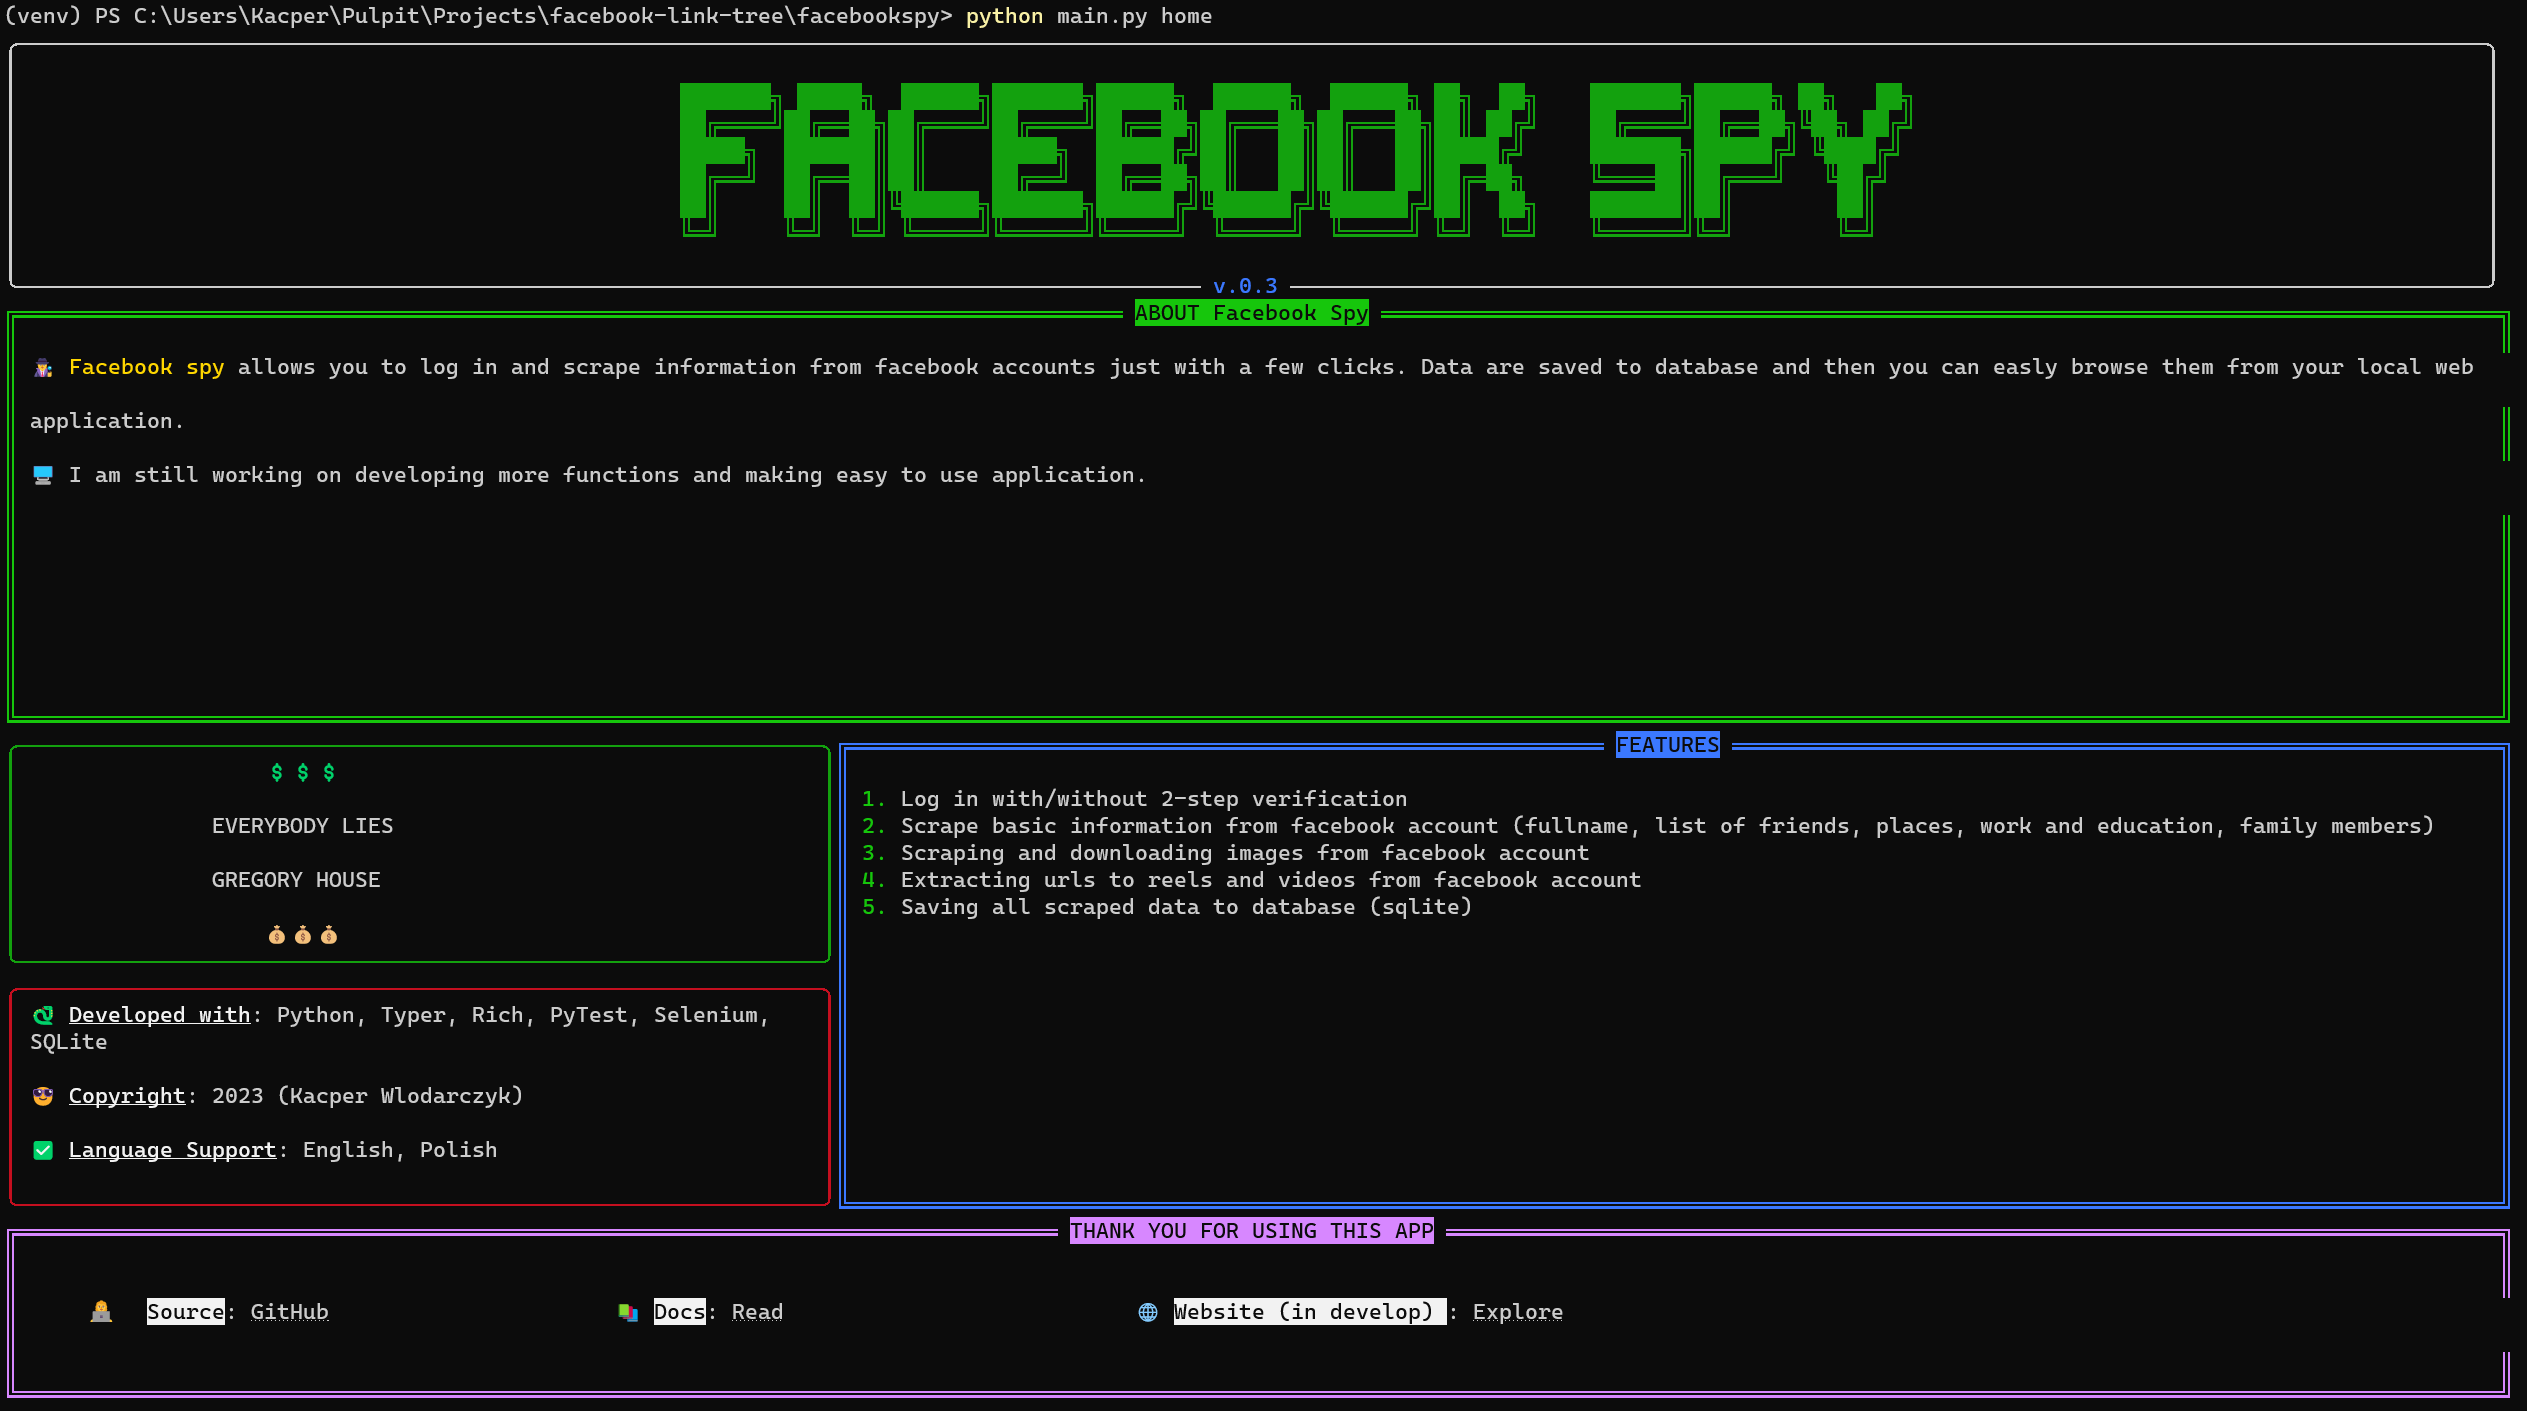
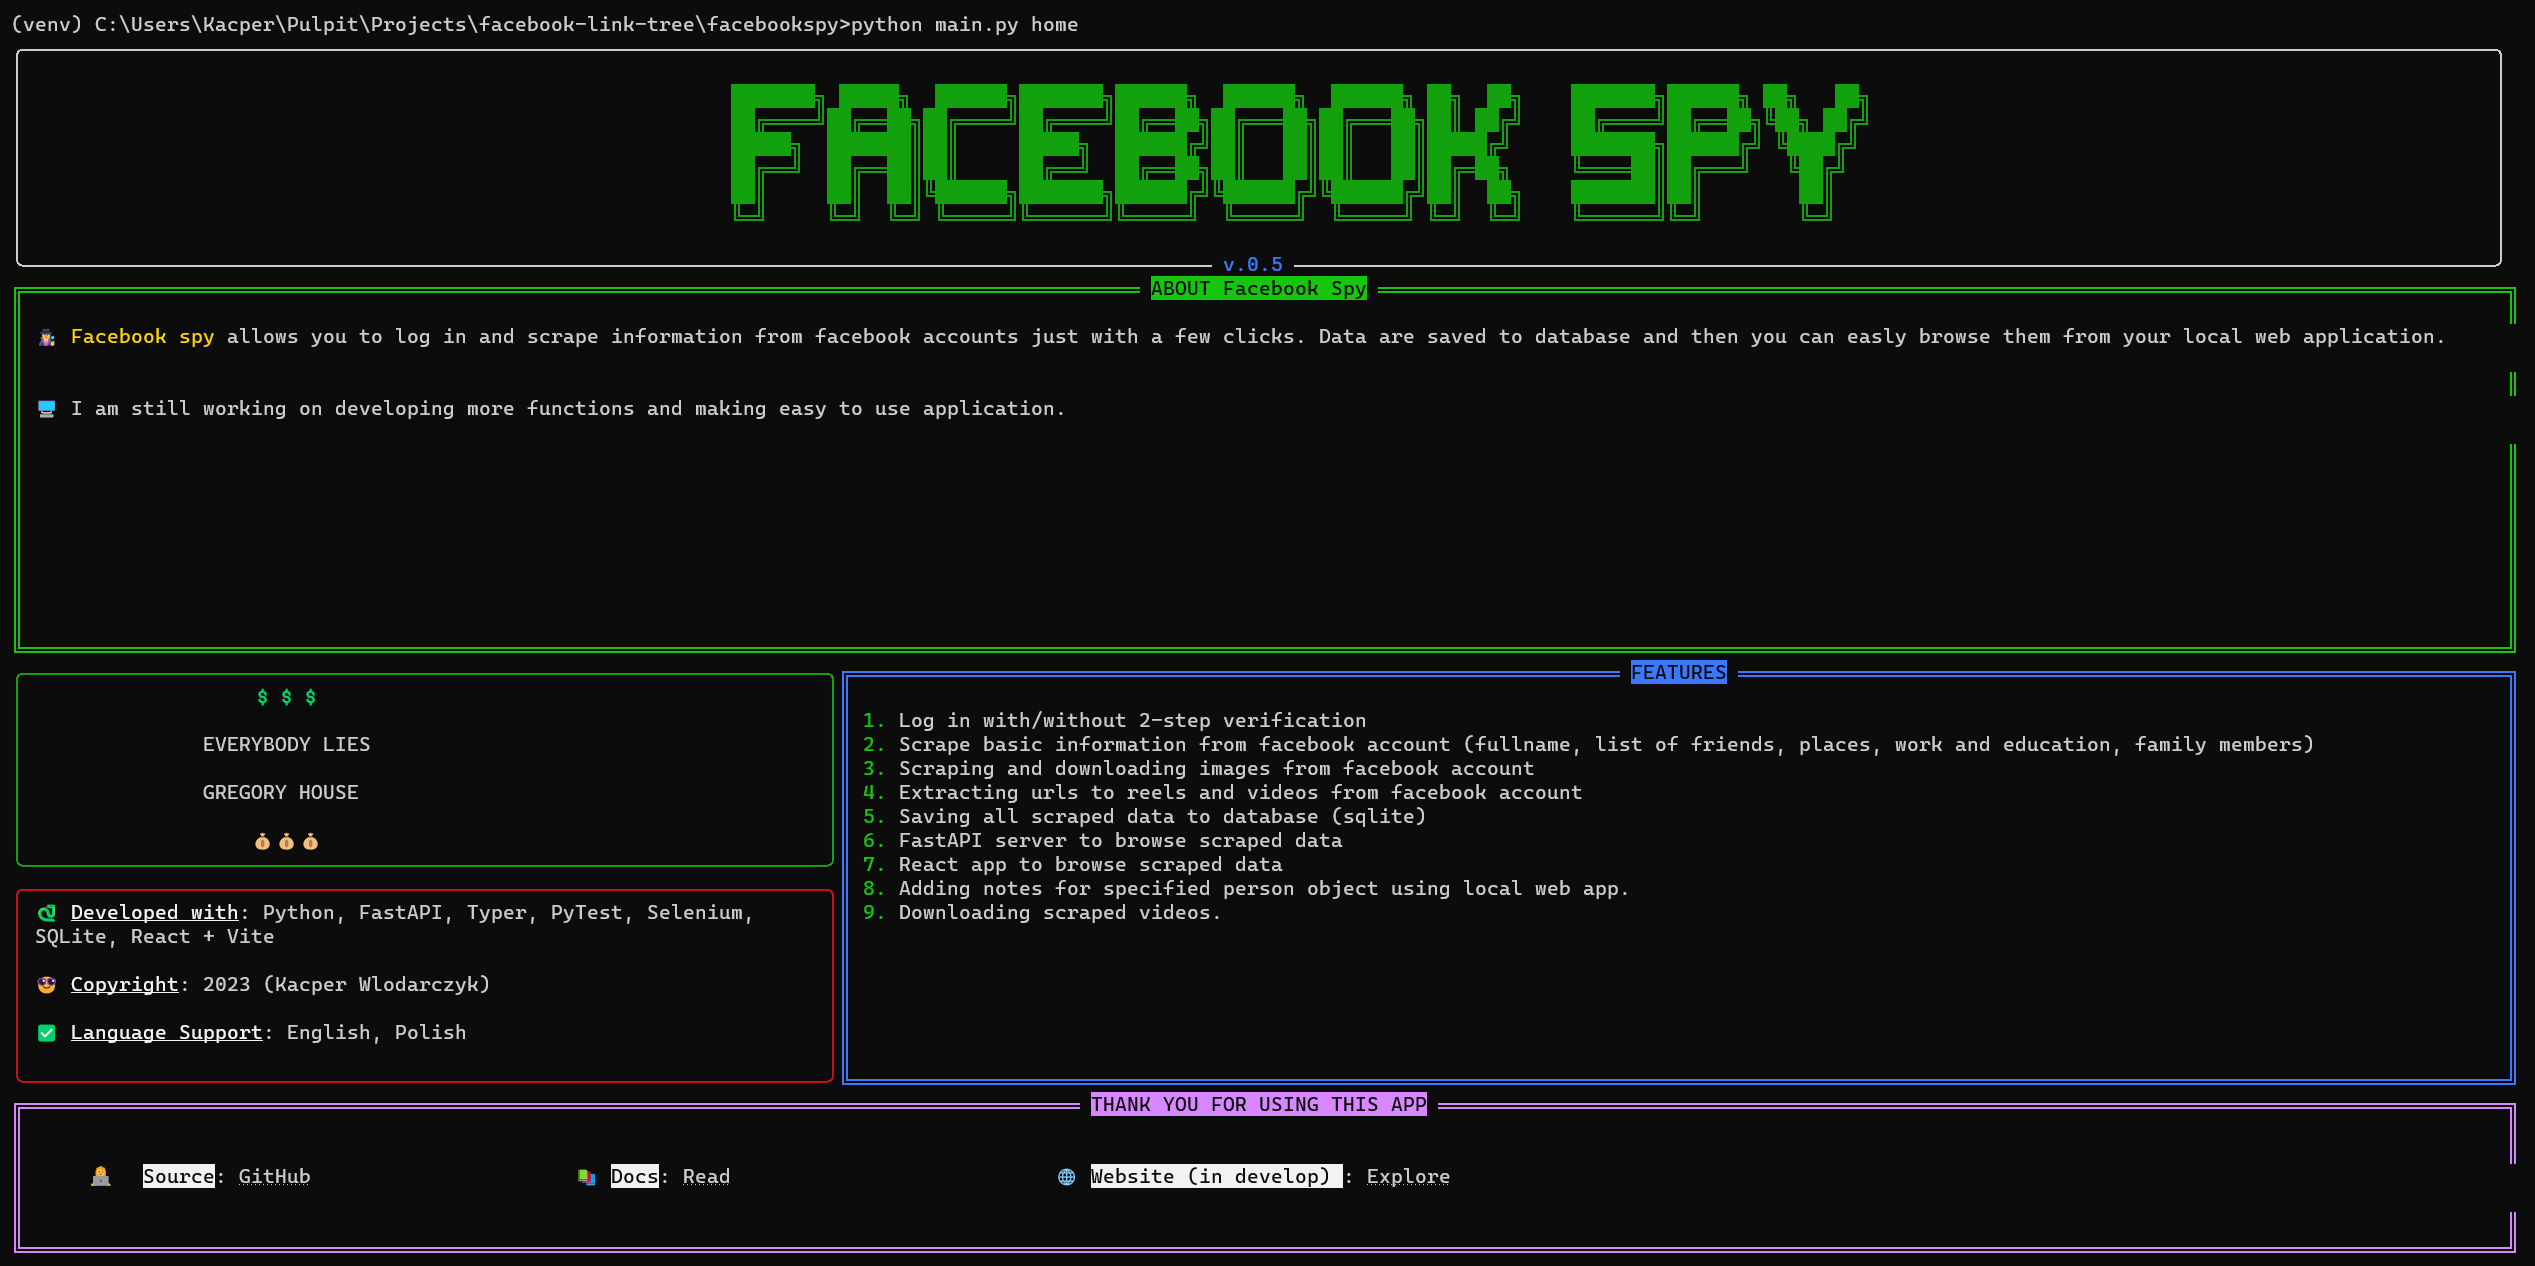
update README.md

diff --git a/facebookspy/src/server/frontend/src/Account/AccountList/pages/PersonsPage.jsx b/facebookspy/src/server/frontend/src/Account/AccountList/pages/PersonsPage.jsx
@@ -27,7 +27,7 @@ const PersonsPage = () => {
 
   useEffect(() => {
     if (searchTerm) {
-      axios.get(`http://127.0.0.1:8000/person/search/?search_term=${searchTerm}`)
+      axios.get(`http://localhost:8000/person/search/?search_term=${searchTerm}`)
         .then(response => {
           setSearchResults(response.data);
         })

diff --git a/facebookspy/src/cli/home.py b/facebookspy/src/cli/home.py
@@ -31,7 +31,7 @@ def display_start_menu() -> None:
     )
 
     main_content = Panel(
-        renderable="[bold green]1.[/bold green] Log in with/without 2-step verification\n[bold green]2.[/bold green] Scrape basic information from facebook account (fullname, list of friends, places, work and education, family members) \n[bold green]3.[/bold green] Scraping and downloading images from facebook account\n[bold green]4.[/bold green] Extracting urls to reels and videos from facebook account\n[bold green]5.[/bold green] Saving all scraped data to database (sqlite)\n[bold green]6.[/bold green] FastAPI server to browse scraped data\n[bold greem]7.[/bold greed] React app to browse scraped data",
+        renderable="[bold green]1.[/bold green] Log in with/without 2-step verification\n[bold green]2.[/bold green] Scrape basic information from facebook account (fullname, list of friends, places, work and education, family members) \n[bold green]3.[/bold green] Scraping and downloading images from facebook account\n[bold green]4.[/bold green] Extracting urls to reels and videos from facebook account\n[bold green]5.[/bold green] Saving all scraped data to database (sqlite)\n[bold green]6.[/bold green] FastAPI server to browse scraped data\n[bold green]7.[/bold green] React app to browse scraped data\n[bold green]8.[/bold green] Adding notes for specified person object using local web app.\n[bold green]9.[/bold green] Downloading scraped videos.",
         title="[reverse]FEATURES[/reverse]",
         title_align="center",
         border_style="bold blue",
@@ -69,7 +69,7 @@ def display_start_menu() -> None:
         # SIDE CONTENT BOTTOM
         Layout(
             Panel(
-                "🐍 [b u]Developed with[/b u]: Python, FastAPI, Typer, Rich, PyTest, Selenium, SQLite\n\n😎 [b u]Copyright[/b u]: 2023 (Kacper Wlodarczyk)\n\n✅ [b u]Language Support[/b u]: English, Polish",
+                "🐍 [b u]Developed with[/b u]: Python, FastAPI, Typer, PyTest, Selenium, SQLite, React + Vite\n\n😎 [b u]Copyright[/b u]: 2023 (Kacper Wlodarczyk)\n\n✅ [b u]Language Support[/b u]: English, Polish",
                 border_style="red",
             )
         ),

diff --git a/facebookspy/src/cli/version.py b/facebookspy/src/cli/version.py
@@ -1,7 +1,7 @@
 from rich import print as rprint
 
 
-VERSION = "0.4"
+VERSION = "0.5"
 
 
 def return_version_info():

diff --git a/README.md b/README.md
@@ -9,10 +9,10 @@
 <br />
 <div align="center">
 
-  <h3 align="center">Facebook link tree</h3>
+  <h3 align="center">Facebook Spy</h3>
 
   <p align="center">
-    Scrape user's profile on facebook.
+    Scrape user's profile on facebook using CLI app and browse data using local web app.
     <br />
     <br />
     <a href="https://github.com/DEENUU1/OLX-Analytics/issues">Report Bug</a>
@@ -30,27 +30,39 @@
 ## About The Project
 This project allows to log in using selenium to facebook account (even if you have 2-step verification), 
 scrape user information based on a given url address and save data to database and local files.
-
+After that you can browse scraped data, add notes, search more detail in google using local web application.
 
 ### Built With
 - Python
+  - Typer
+  - Selenium
 - FastAPI 
-- Typer
-- Selenium
+- React
+  - Vite 
 - Sqlite
-- Docker & docker compsoe 
+- Docker & docker compose 
 
 ## Key Features
 - Log in with 2-step verification
 - Log in without 2-step verification
 - Save cookies to save log in session
-- Scrape a list of friends
 - Scrape information like:
   - work and education
   - places
   - full name
   - recent places 
+  - videos
+    - download videos
+  - reels
+  - list of friends
+  - images
+    - downlaod images
+  - reviews
 - Save scraped data to database
+- Local web app (FastAPI + React):
+  - Browse scraped data
+  - Adding notes in local web app for specified person
+  - Automatically search scraped data in google
 
 ## Screenshots
 
@@ -65,22 +77,11 @@ scrape user information based on a given url address and save data to database a
 
 ## Upcoming versions
 
-
-### v0.5 (In develop)
-- ~~React frontend for local server~~ 
-- ~~Automatically google search in person detail~~ 
-- ~~Adding notes for specified person~~ 
-- ~~FastAPI search~~:
-  - ~~Friends~~
-  - ~~Person~~
-- Downloading videos and reels 
-- ~~Docker & Docker compose~~ 
-- ~~Pytest for fastapi endpoints~~ 
-
-### v0.6 (ideas)
+### v0.6 (In develop)
 - Delete and update operations on database  
 - Create methods in react app 
 - Static page for project with demo etc.
+
 ### v0.7 (ideas)
 - Scrape:
   - groups
